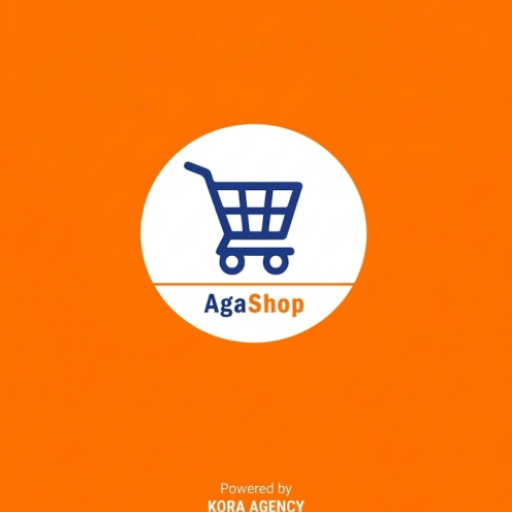
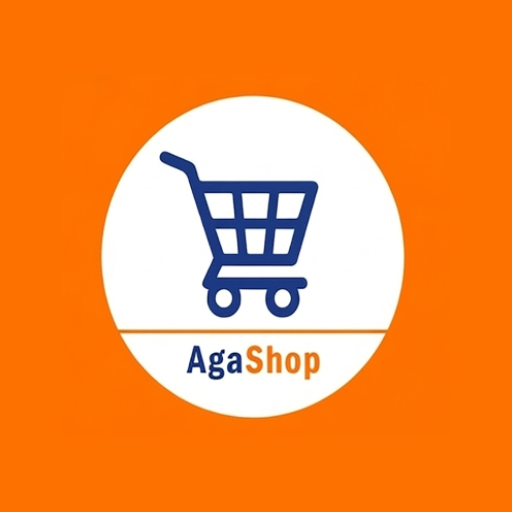
Fix: erreur 500 achat et correction update historique achats

Changed region(s): [[0.1875, 0.1562, 0.8125, 0.8438], [0.4062, 0.9375, 0.5938, 1.0]]

diff --git a/frontend/src/components/shop/EditSupplyProduct.vue b/frontend/src/components/shop/EditSupplyProduct.vue
@@ -333,10 +333,10 @@ export default {
       }
       const q = Number(this.product.quantity);
       const t = Number(this.product.total_buy_price);
-      if (isNaN(q) || q < 0) {
-        this.errors.quantity.empty = true;
-        return false;
-      }
+            if (isNaN(q) || q <= 0) {
+                this.errors.quantity.empty = true;
+                return false;
+            }
       if (isNaN(t) || t < 0) {
         this.errors.total_buy_price.empty = true;
         return false;
@@ -356,6 +356,8 @@ export default {
       const total_buy_price = parseFloat(this.product.total_buy_price) || 0;
       const salePrice = Number(this.product.sale_price) || 0;
       
+      const buyPrice = quantity > 0 ? total_buy_price / quantity : 0;
+
       try {
         const res = await suppliesService.updateSupply(this.supplyId, { 
           quantity, 

diff --git a/frontend/src/App.vue b/frontend/src/App.vue
@@ -8,6 +8,7 @@
 <script >
 import { IonApp, IonRouterOutlet, useIonRouter, useBackButton } from '@ionic/vue';
 import { App } from '@capacitor/app';
+import { SplashScreen } from '@capacitor/splash-screen';
 import { shopsService } from '@/services/api';
 import { toastController } from '@ionic/vue';
 import ContextualHelpBot from '@/components/common/ContextualHelpBot.vue';
@@ -48,6 +49,8 @@ export default{
   },
   mounted(){
     console.log("app")
+    // Hide splash screen explicitly after Vue app is ready
+    SplashScreen.hide().catch(console.error);
     var otp_user = JSON.parse(localStorage.getItem('otp_user'));
     if(otp_user) {
       this.$store.state.otp_user = otp_user;

diff --git a/frontend/src/components/shop/SupplyProduct.vue b/frontend/src/components/shop/SupplyProduct.vue
@@ -313,7 +313,7 @@ export default {
             }
             const q = Number(this.product.quantity);
             const t = Number(this.product.total_buy_price);
-            if (isNaN(q) || q < 0) {
+            if (isNaN(q) || q <= 0) {
                 this.errors.quantity.empty = true;
                 return false;
             }

diff --git a/frontend/capacitor.config.ts b/frontend/capacitor.config.ts
@@ -6,7 +6,7 @@ const config: CapacitorConfig = {
   webDir: 'dist',
   plugins: {
     SplashScreen: {
-      launchShowDuration: 2000,
+      launchAutoHide: false,
       backgroundColor: "#ff7200",
       showSpinner: false,
       androidSpinnerStyle: "small",

diff --git a/frontend/prepare_and_generate_assets.py b/frontend/prepare_and_generate_assets.py
@@ -1,0 +1,77 @@
+import os
+from PIL import Image
+
+def fix_image(filepath, target_width, target_height):
+    if not os.path.exists(filepath):
+        print(f"⚠ Ignoré : Le fichier {filepath} n'existe pas.")
+        return False
+        
+    try:
+        img = Image.open(filepath)
+        w, h = img.size
+        print(f"🔍 Vérification de {os.path.basename(filepath)} (Actuel: {w}x{h}, Cible: {target_width}x{target_height})")
+        
+        if w != target_width or h != target_height:
+            print(f"📐 Redimensionnement de {os.path.basename(filepath)}...")
+            
+            # Calcul du ratio pour couvrir toute la zone sans déformer
+            ratio = max(target_width / w, target_height / h)
+            new_w = int(w * ratio)
+            new_h = int(h * ratio)
+            
+            img = img.resize((new_w, new_h), Image.LANCZOS)
+            
+            # Recadrage au centre (Crop)
+            left = (new_w - target_width) // 2
+            top = (new_h - target_height) // 2
+            img = img.crop((left, top, left + target_width, top + target_height))
+            
+            # Sauvegarde de l'image corrigée
+            img.save(filepath, format="PNG")
+            print(f"✅ {os.path.basename(filepath)} redimensionné avec succès !")
+        else:
+            print(f"✅ {os.path.basename(filepath)} est déjà aux bonnes dimensions.")
+        return True
+    except Exception as e:
+        print(f"❌ Erreur lors du traitement de {filepath}: {e}")
+        return False
+
+def main():
+    print("=" * 60)
+    print("🛠  CORRECTION ET GÉNÉRATION DES ASSETS ANDROID")
+    print("=" * 60)
+    
+    base_dir = os.path.join(os.path.dirname(os.path.abspath(__file__)), "resources")
+    
+    # Fichiers à vérifier
+    icon_path = os.path.join(base_dir, "icon-only.png")
+    icon_bg_path = os.path.join(base_dir, "icon-background.png")
+    icon_fg_path = os.path.join(base_dir, "icon-foreground.png")
+    splash_path = os.path.join(base_dir, "splash.png")
+    splash_dark_path = os.path.join(base_dir, "splash-dark.png")
+    
+    # 1. Correction des icônes (1024x1024)
+    print("\n--- 1. Vérification des icônes ---")
+    fix_image(icon_path, 1024, 1024)
+    fix_image(icon_bg_path, 1024, 1024)
+    fix_image(icon_fg_path, 1024, 1024)
+    
+    # 2. Correction des splash screens (2732x2732)
+    print("\n--- 2. Vérification des splash screens ---")
+    fix_image(splash_path, 2732, 2732)
+    fix_image(splash_dark_path, 2732, 2732)
+    
+    # 3. Lancement de la génération Capacitor
+    print("\n--- 3. Génération des assets Capacitor ---")
+    os.system("npx @capacitor/assets generate --assetPath resources")
+    
+    # 4. Synchronisation Android
+    print("\n--- 4. Synchronisation Android ---")
+    os.system("npx cap sync android")
+    
+    print("\n" + "=" * 60)
+    print("🚀 Terminé ! Teste avec : npx cap open android")
+    print("=" * 60)
+
+if __name__ == "__main__":
+    main()

diff --git a/backend/api/shops/viewsets/ProductViewSet.py b/backend/api/shops/viewsets/ProductViewSet.py
@@ -369,7 +369,8 @@ class ProductViewSet(viewsets.ModelViewSet):
 		product.quantity += quantity
 		
 		# Mise à jour du prix d'achat
-		product.buy_price = round(total_buy_price/quantity)
+		if quantity > 0:
+			product.buy_price = round(total_buy_price/quantity)
 		
 		# Mise à jour du prix de vente si fourni (nouveau besoin utilisateur)
 		sale_price = request.data.get('sale_price')

diff --git a/README_ANDROID.md b/README_ANDROID.md
@@ -74,3 +74,12 @@ Une fois la synchronisation terminée, il faut ouvrir le projet dans Android Stu
    # Ou avec le nouvel outil Capacitor Assets :
    npx @capacitor/assets generate --android
    ```
+Supprimer manuellement le dossier de compilation corrompu. Va dans le répertoire suivant : E:\AgaShop\github-cpanel-agashop\frontend\android\app\ Et supprime complètement le dossier nommé build.
+
+(Alternative en ligne de commande depuis le dossier frontend) :
+
+powershell
+cd android
+.\gradlew clean
+cd ..
+npx cap open android
